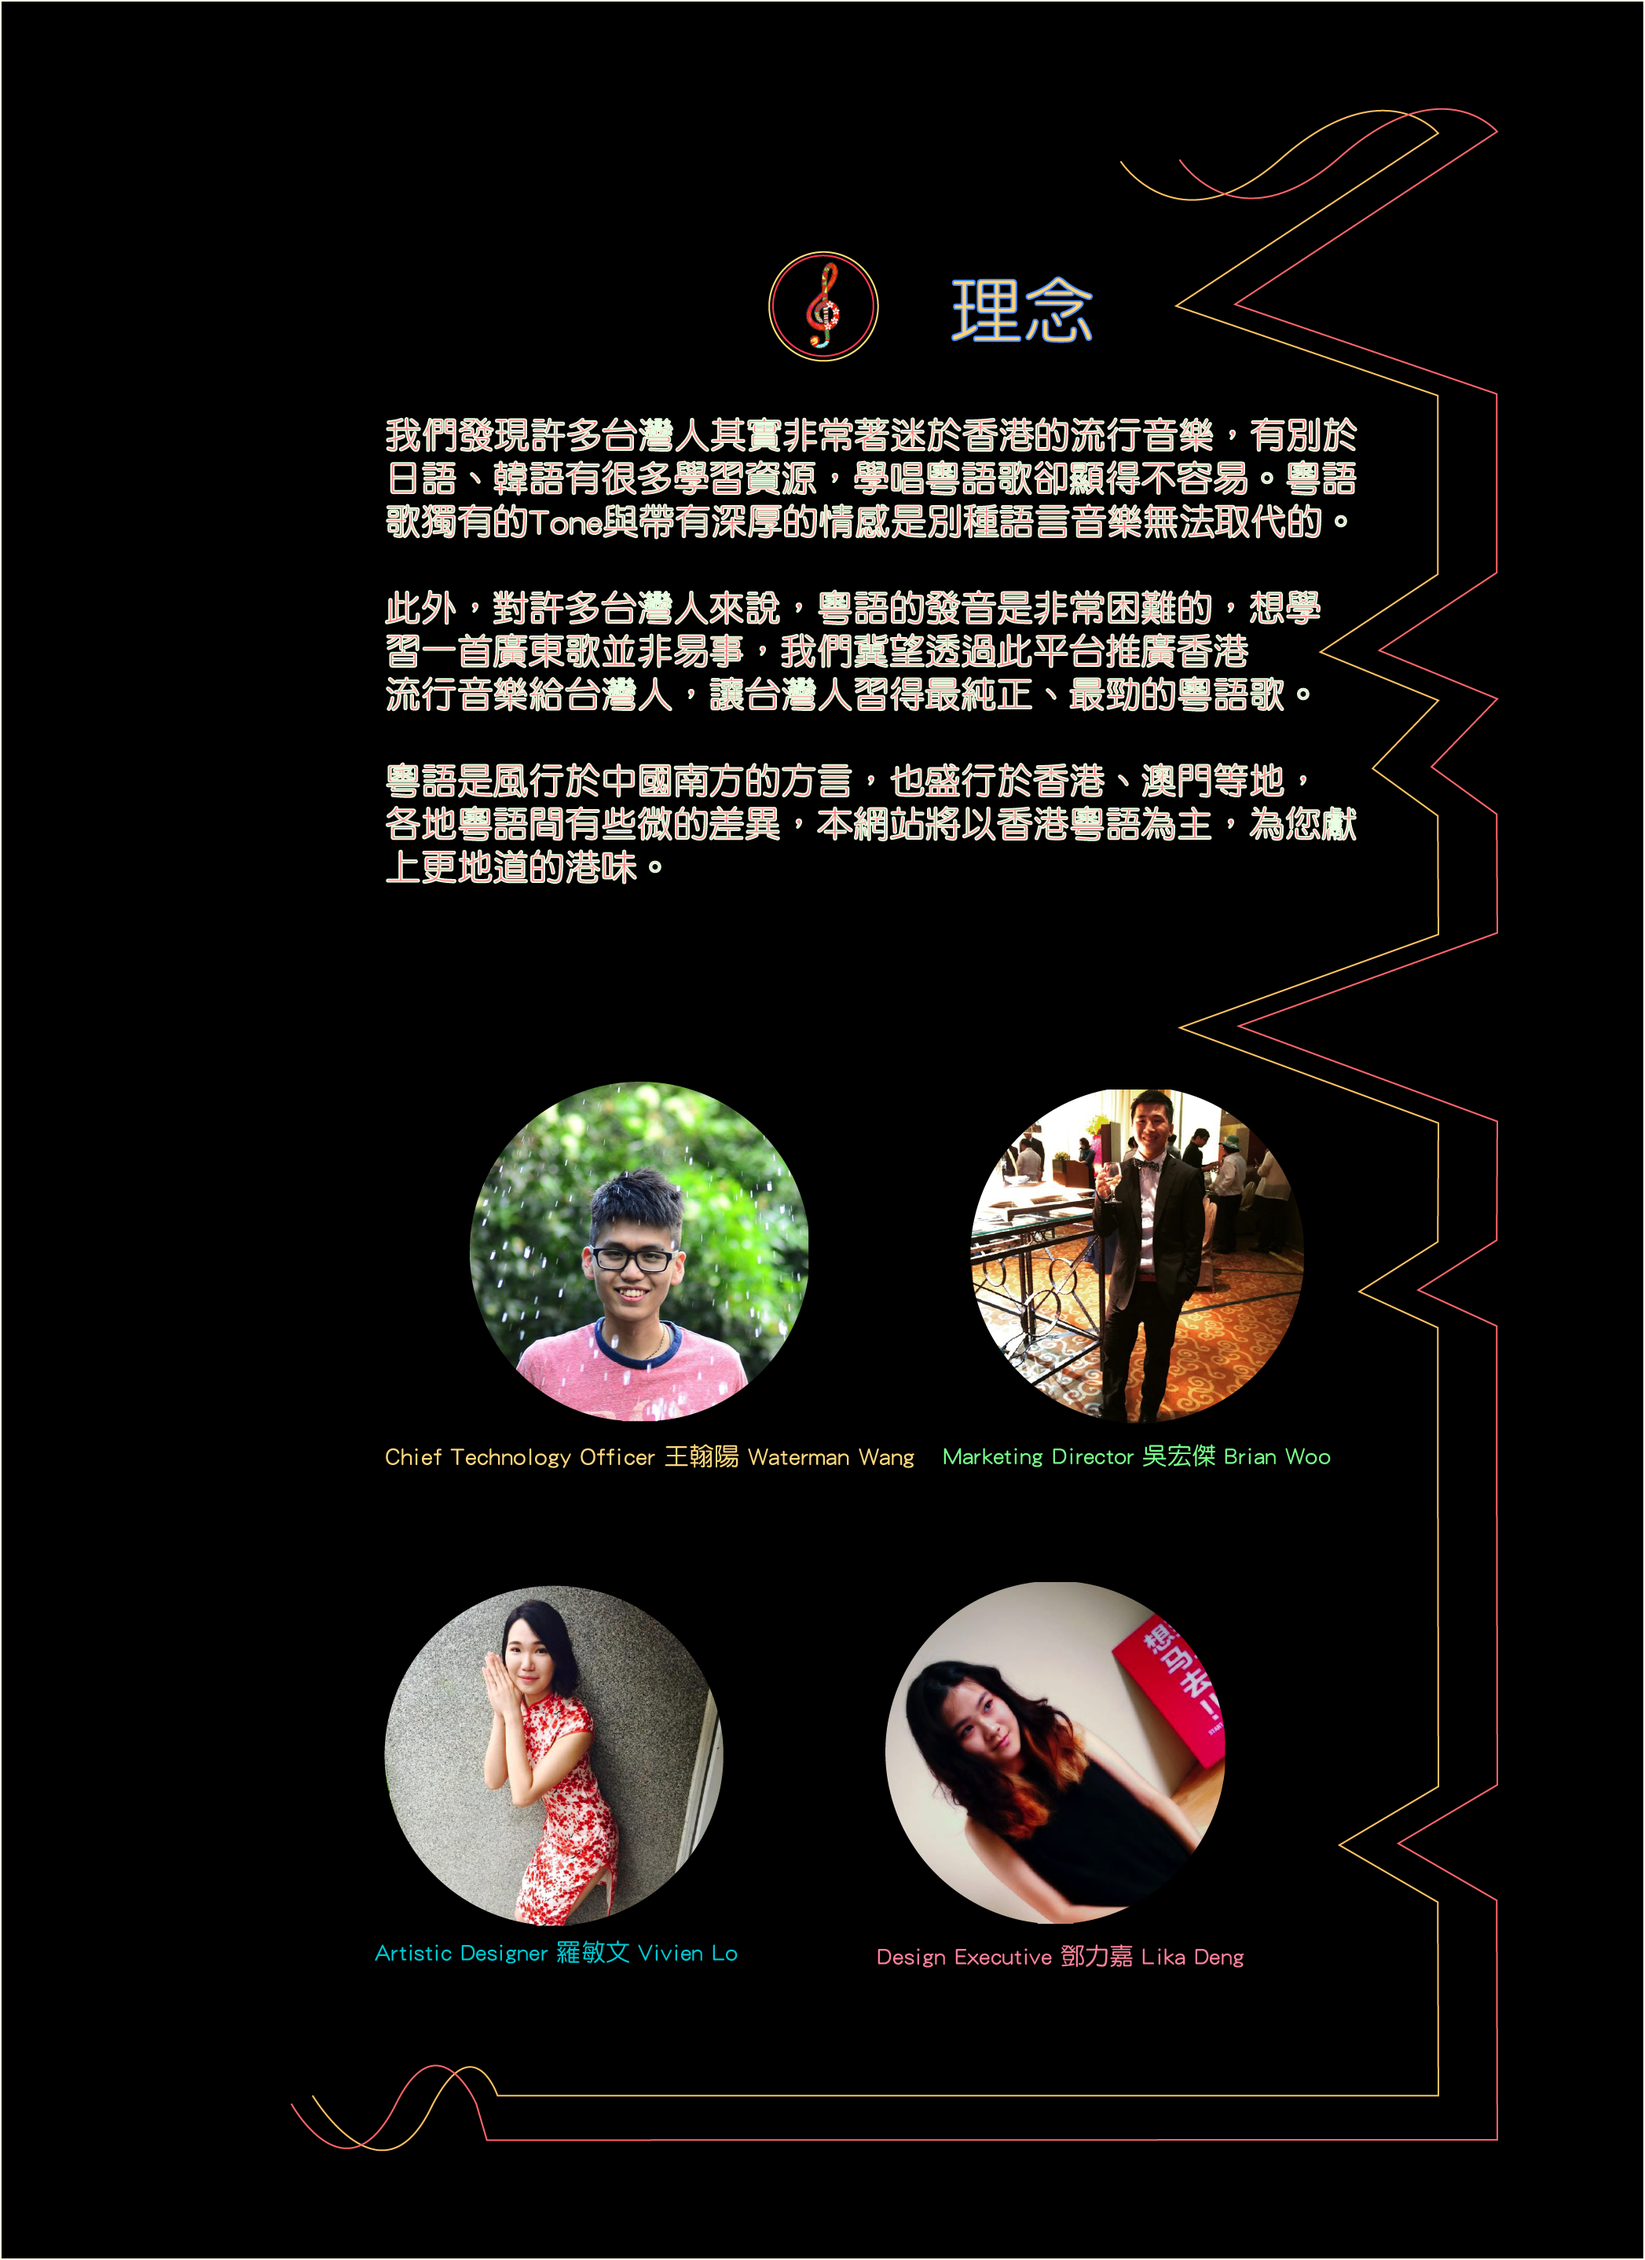
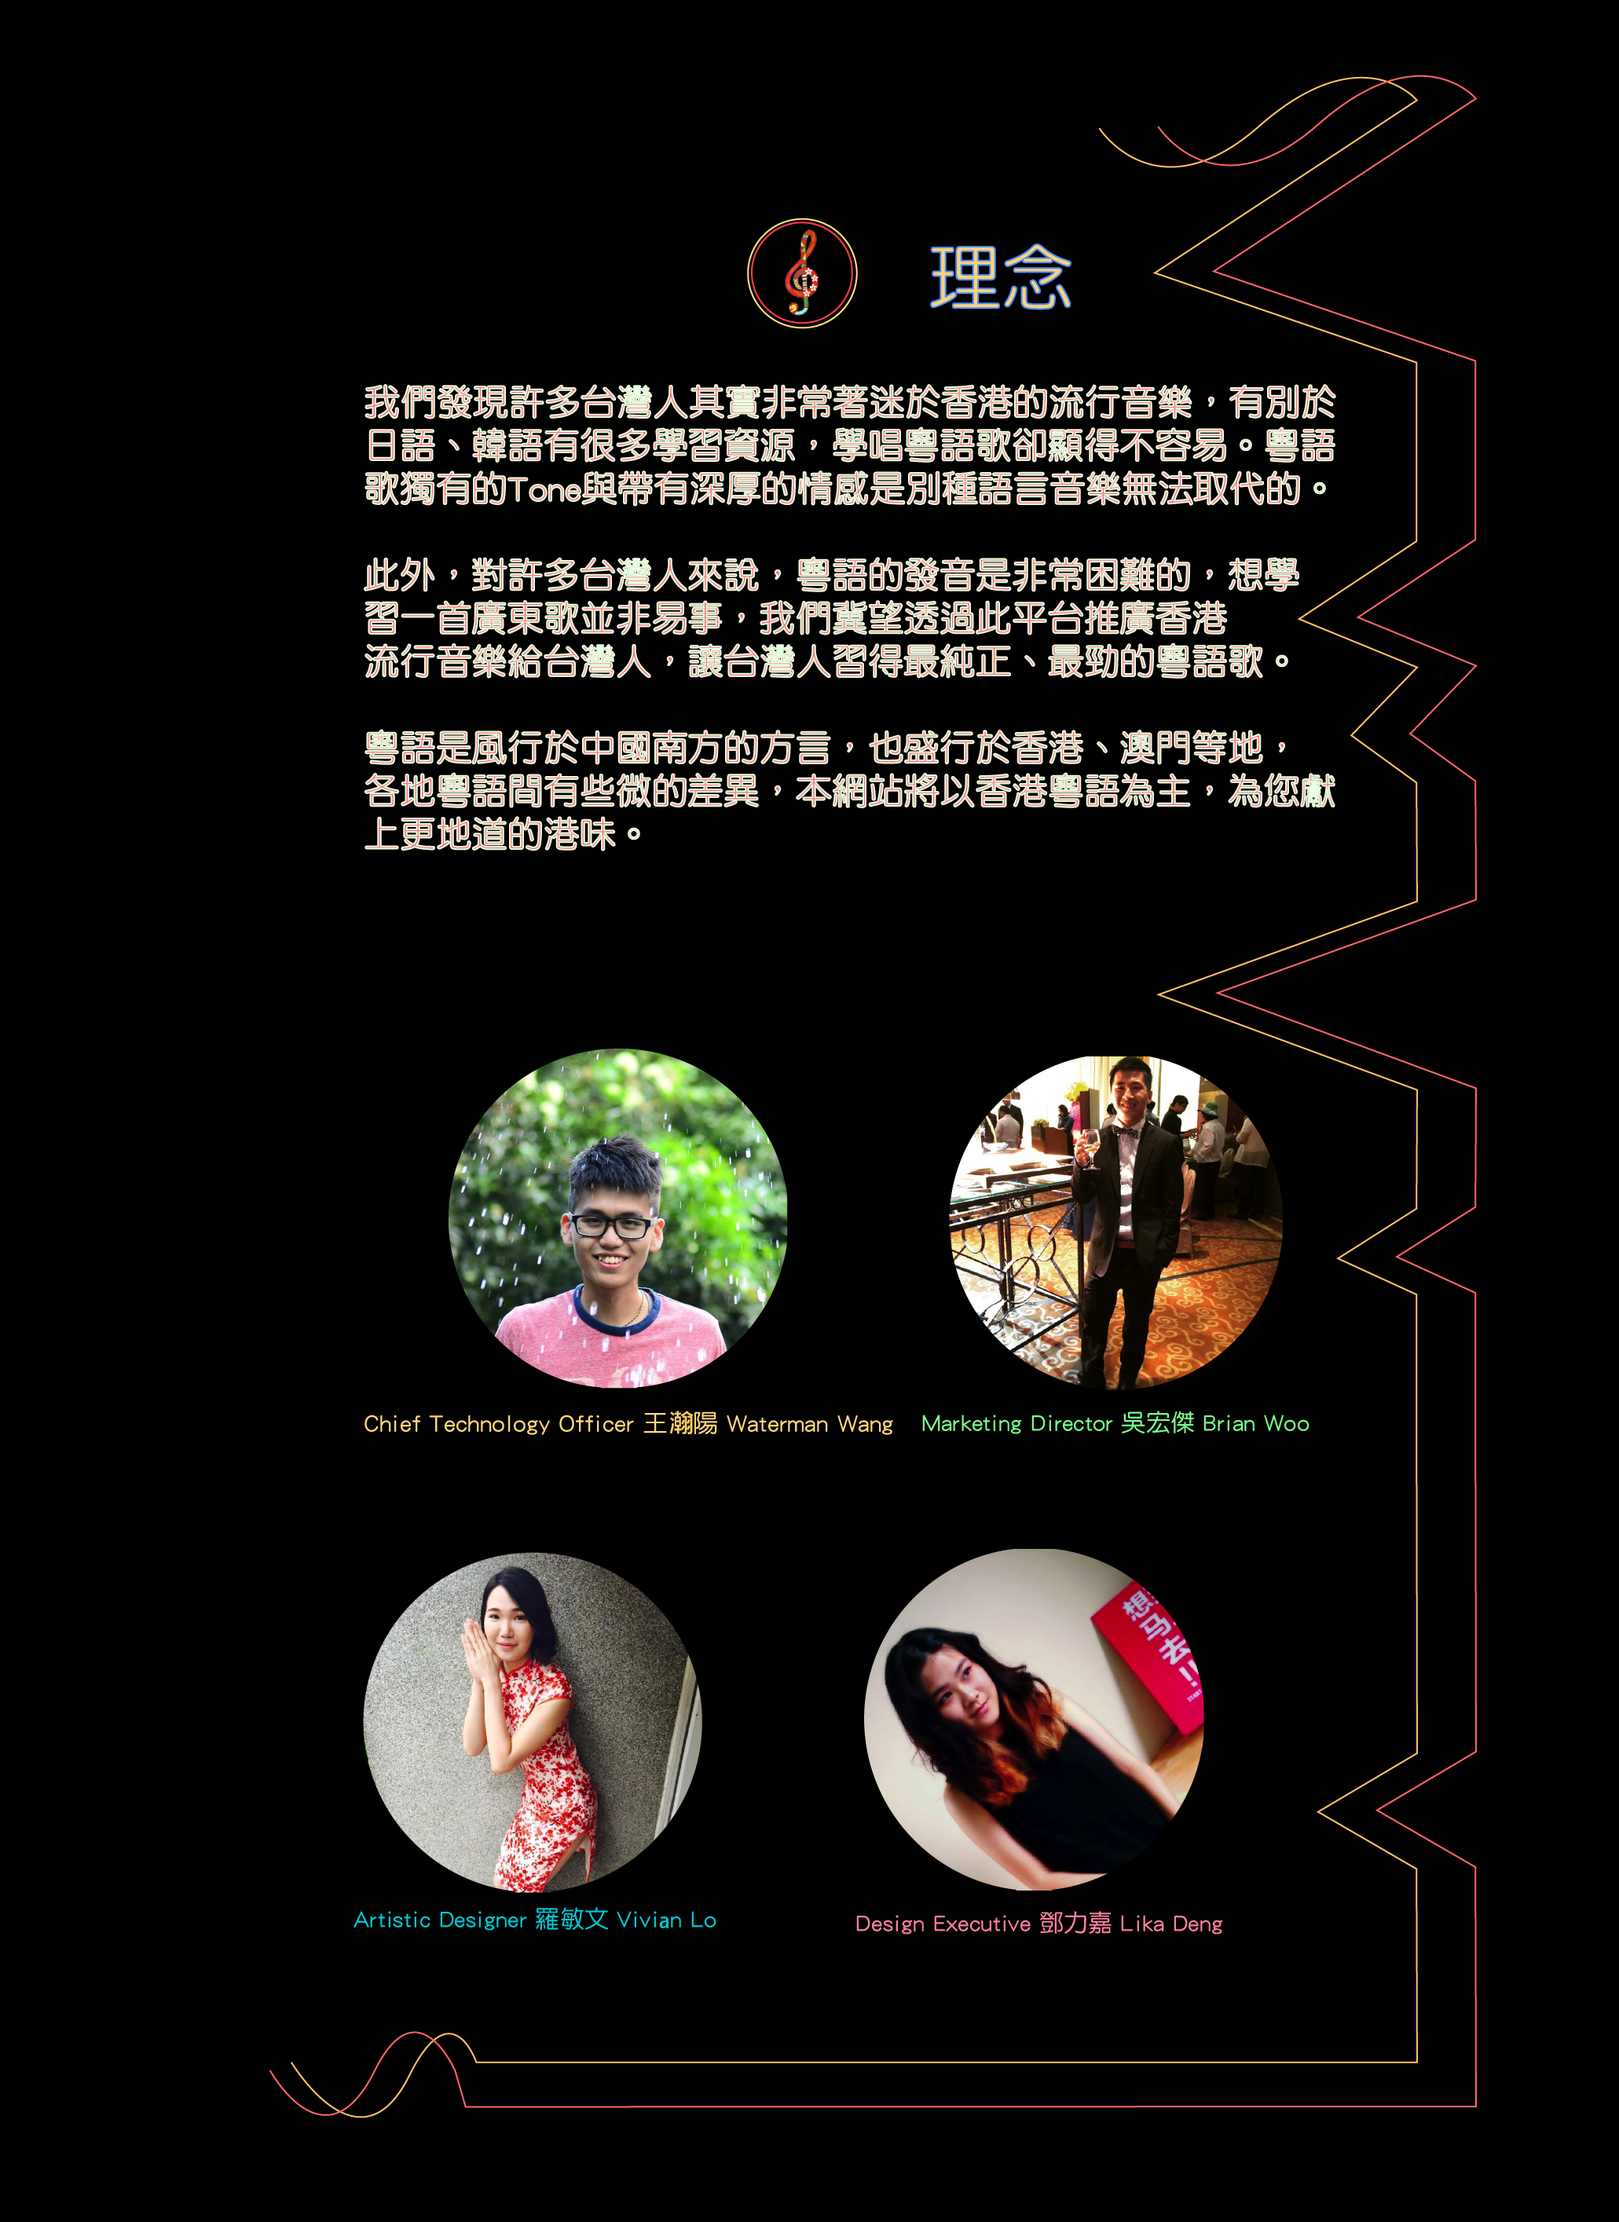
aboutimg
about
img

diff --git a/final2/css/normal.css b/final2/css/normal.css
@@ -25,10 +25,11 @@ body{
 }
 
 .logo_about{
-	width: 98%;
+	width: 95%;
 	display:block;
   	margin: auto;
   	margin-bottom: 25px;
+  	margin-right: 100px;
 }
 
 
